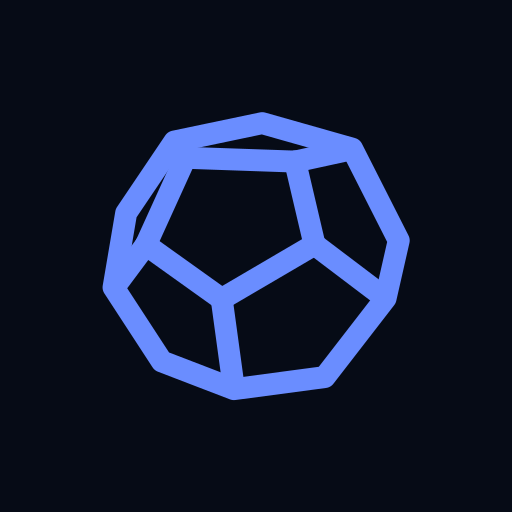
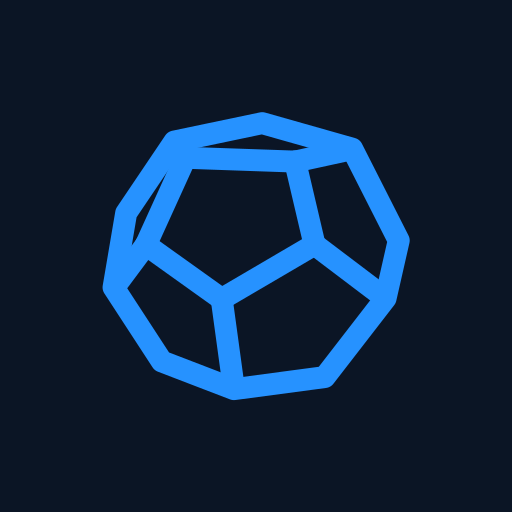
fix: full theme colors in assets

Changed region(s): [[0.1875, 0.2188, 0.8125, 0.7812]]

diff --git a/src/lib/ThemeColorSelector.svelte b/src/lib/ThemeColorSelector.svelte
@@ -4,7 +4,7 @@
         CaretRightIcon,
         PaletteIcon,
     } from "phosphor-svelte";
-    import { themeColor, type ThemeColor } from "./themeColorStore";
+    import { themeColor, DEFAULT_THEME_COLOR, type ThemeColor } from "./themeColorStore";
     import { oklchToHex } from "./themeEngine";
     import { triggerHaptic } from "./haptics";
     import { tooltip } from "./tooltip";
@@ -23,7 +23,7 @@
             | "theme.preset.green"
             | "theme.preset.neutral";
     }[] = [
-        { h: 260, c: 0.26, labelKey: "theme.preset.blue" },
+        { ...DEFAULT_THEME_COLOR, labelKey: "theme.preset.blue" },
         { h: 145, c: 0.25, labelKey: "theme.preset.green" },
         { h: 350, c: 0.26, labelKey: "theme.preset.rose" },
         { h: 55, c: 0.24, labelKey: "theme.preset.amber" },
@@ -40,7 +40,7 @@
     let dropdownX = 0;
     let dropdownY = 0;
     let pickerOpen = false;
-    let pickerInitialColor: ThemeColor = { h: 264, c: 0.24 };
+    let pickerInitialColor: ThemeColor = { ...DEFAULT_THEME_COLOR };
 
     $: currentHex = oklchToHex(0.65, $themeColor.c, $themeColor.h);
 

diff --git a/vite.config.ts b/vite.config.ts
@@ -1,6 +1,7 @@
 import { defineConfig } from "vite";
 import { svelte } from "@sveltejs/vite-plugin-svelte";
 import { VitePWA } from "vite-plugin-pwa";
+import { THEME_BG } from "./scripts/theme-defaults.ts";
 
 // https://vite.dev/config/
 export default defineConfig({
@@ -20,8 +21,8 @@ export default defineConfig({
                 description: "Plan and share Backpack Tech builds.",
                 start_url: ".",
                 display: "standalone",
-                background_color: "#060b16",
-                theme_color: "#060b16",
+                background_color: THEME_BG,
+                theme_color: THEME_BG,
                 icons: [
                     {
                         src: "pwa-192x192.png",

diff --git a/src/lib/ColorPickerDialog.svelte b/src/lib/ColorPickerDialog.svelte
@@ -5,12 +5,12 @@
     import { oklchToHex, hexToOklch, applyTheme } from "./themeEngine";
     import { darkMode } from "./darkModeStore";
     import { triggerHaptic } from "./haptics";
-    import type { ThemeColor } from "./themeColorStore";
+    import { DEFAULT_THEME_COLOR, type ThemeColor } from "./themeColorStore";
     import Button from "./Button.svelte";
     import { t } from "svelte-whisper";
 
     export let isOpen = false;
-    export let initialColor: ThemeColor = { h: 264, c: 0.19 };
+    export let initialColor: ThemeColor = DEFAULT_THEME_COLOR;
     export let onApply: ((color: ThemeColor) => void) | null = null;
     export let onCancel: (() => void) | null = null;
 

diff --git a/index.html b/index.html
@@ -8,7 +8,8 @@
     <link rel="apple-touch-icon" href="/apple-touch-icon-180x180.png" />
     <meta name="viewport" content="width=device-width, initial-scale=1.0, viewport-fit=cover" />
     <meta name="color-scheme" content="light dark" />
-    <meta name="theme-color" content="#060b16" />
+    <!-- oklchToHex(BG_L*0.5+SURFACE_L*0.5, c*0.14, h) for default preset; see themeApply.ts syncThemeColorMeta -->
+    <meta name="theme-color" content="#0b1525" />
     <meta name="mobile-web-app-capable" content="yes" />
     <meta name="apple-mobile-web-app-capable" content="yes" />
     <meta name="apple-mobile-web-app-status-bar-style" content="black-translucent" />

diff --git a/scripts/theme-defaults.ts b/scripts/theme-defaults.ts
@@ -1,0 +1,11 @@
+/**
+ * Pre-computed theme colors for the default preset (Blue: h=260, c=0.26).
+ * Used by static assets that can't call the runtime theme engine.
+ *
+ * BG:     oklchToHex(BG_L*0.5 + SURFACE_L*0.5, c*0.14, h)  — see themeApply.ts syncThemeColorMeta
+ * ACCENT: oklchToHex(0.7, c, h)                              — see themeEngine.ts applyTheme (dark --accent)
+ * ACCENT_LIGHT: oklchToHex(0.45, c, h)                       — see themeEngine.ts applyTheme (light --accent)
+ */
+export const THEME_BG = "#0b1525";
+export const THEME_ACCENT = "#2692ff";
+export const THEME_ACCENT_LIGHT = "#0038e1";

diff --git a/src/lib/themeEngine.ts b/src/lib/themeEngine.ts
@@ -109,7 +109,7 @@ export const SURFACE_L = { dark: 0.24, light: 0.9 } as const;
 // ── Theme Application ───────────────────────────────────────
 
 export function applyTheme(
-    source: ThemeSource = { h: 264, c: 0.24 },
+    source: ThemeSource,
     mode: "dark" | "light" = "dark",
 ): void {
     const isDark = mode === "dark";

diff --git a/src/lib/themeColorStore.ts b/src/lib/themeColorStore.ts
@@ -7,8 +7,8 @@ export interface ThemeColor {
     l?: number;
 }
 
-/** Default source color: vibrant blue */
-const DEFAULT_THEME_COLOR: ThemeColor = { h: 264, c: 0.24 };
+/** Default source color: matches the first preset (Blue) */
+export const DEFAULT_THEME_COLOR: ThemeColor = { h: 260, c: 0.26 };
 
 function getThemeColor(): ThemeColor {
     const stored = getItem("theme-color");
